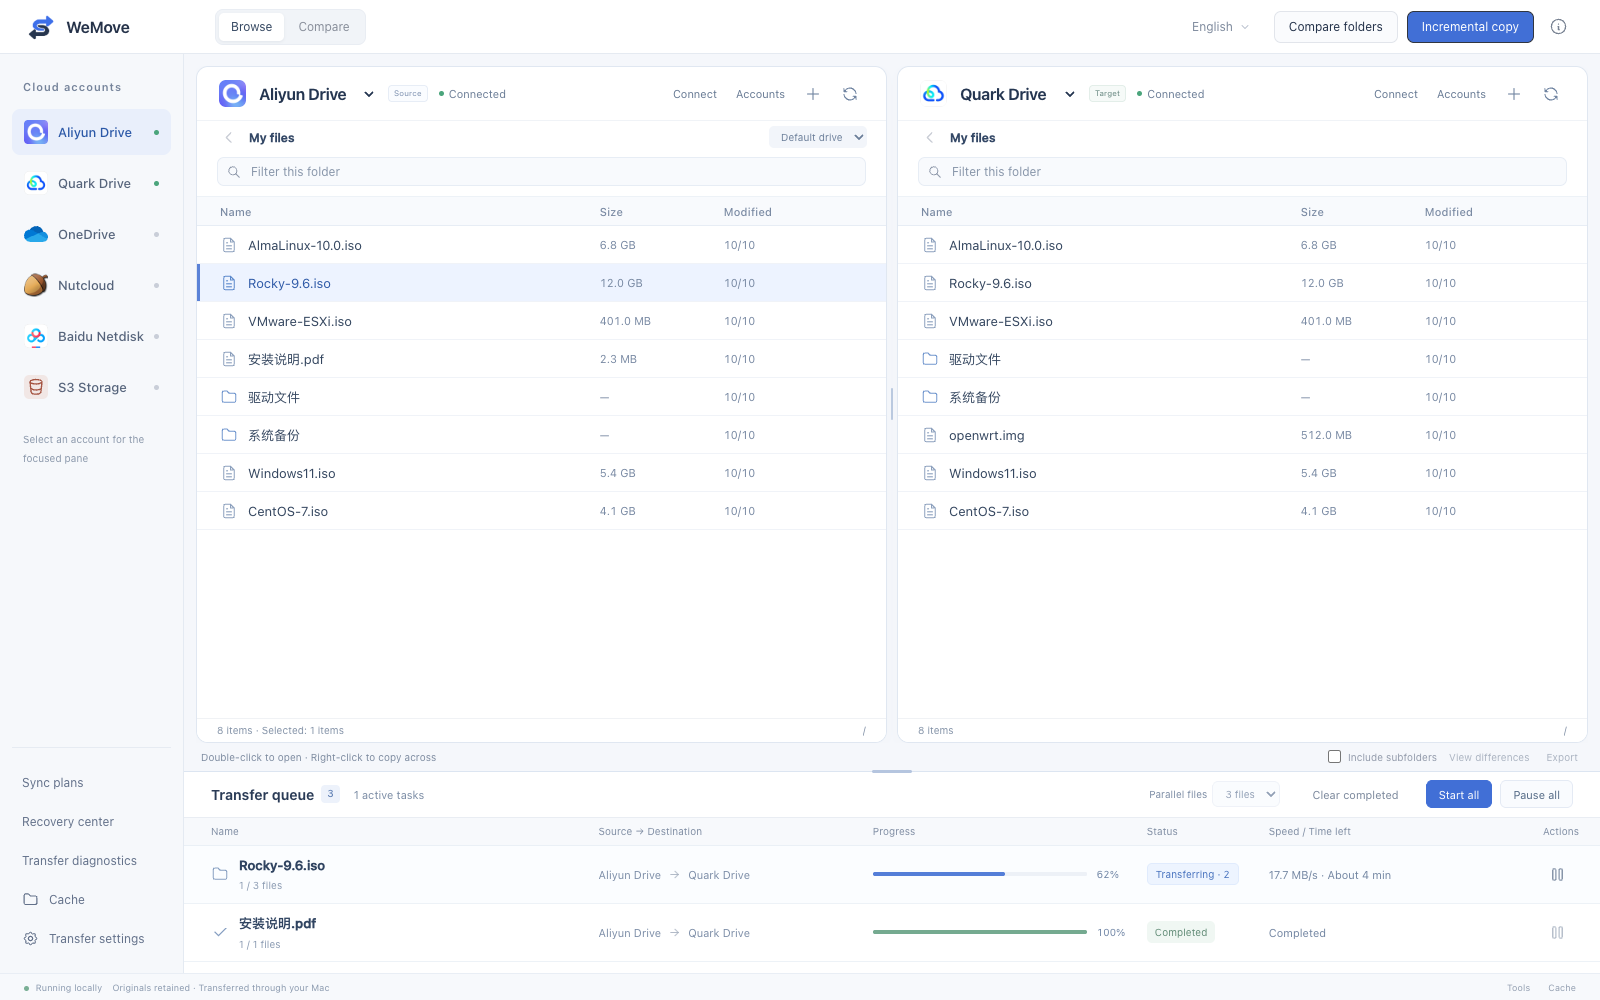
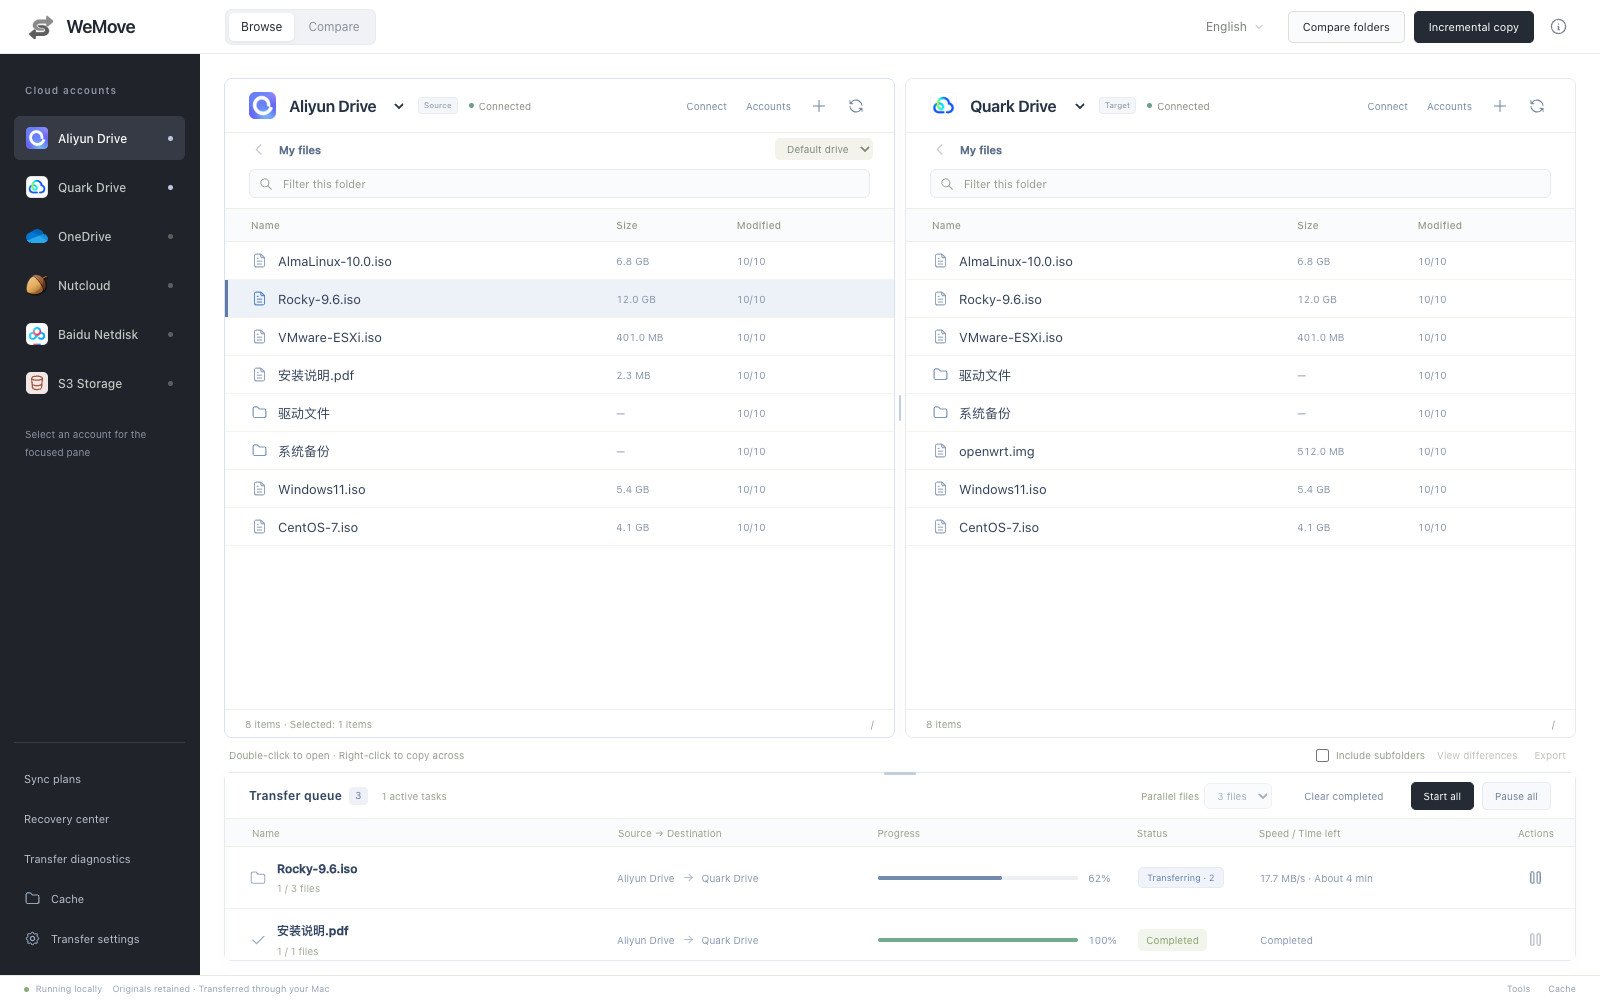
feat(ui): apply Ink theme and refresh bilingual README screenshots

diff --git a/styles.css b/styles.css
@@ -119,3 +119,23 @@ HTML[lang="en"] .pane-role{font-size:8px}HTML[lang="en"] .pane-head>button:not(.
 .app-header{height:54px}.browser-area{padding:12px 12px 0;grid-template-rows:minmax(0,1fr) 28px}.pane-head{min-height:54px}.pane-head .provider-logo{width:27px;height:27px}.pathbar{min-height:31px;margin-top:0}.filterbar{min-height:29px;margin:4px 20px 10px;padding:4px 9px}.file-table th{height:29px}.file-table tbody tr:not(.virtual-spacer),.file-table tbody tr:not(.virtual-spacer)>td{height:38px}.pane-footer{min-height:24px}.queue{grid-template-rows:46px 28px minmax(0,1fr)}.job{min-height:58px}.queue>header button{height:28px;min-height:28px}.comparison-strip{font-size:10px}
 @media(max-width:850px){.browser-area{padding:8px 8px 0}.pane-head{min-height:50px}.filterbar{margin-inline:14px}}
 .context{max-height:calc(100dvh - 16px);overflow-y:auto;min-width:220px}.menu-divider{height:1px;background:#e9edf4;margin:5px 7px}.context>button{font-size:12px;min-height:30px}.context .menu-target{max-width:260px;overflow:hidden;text-overflow:ellipsis;white-space:nowrap}
+
+/* Approved A: Ink / black and white workspace. */
+/* Graphite / warm paper: an alternative visual direction. */
+:root{--ink:#292e32;--blue:#536858;--line:#e8e7e3;--muted:#828781}
+.window{grid-template-columns:200px minmax(0,1fr);background:#f5f4f0}.app-header{height:66px;background:#faf9f6;border-bottom:1px solid #e5e4df;padding-inline:26px}.app-identity{min-width:174px}.brand{font-size:18px;color:#303b35;letter-spacing:-.6px}.app-symbol{background:transparent}.app-logo{filter:grayscale(1);opacity:.8}.view-switch{border-color:#e5e4de;background:#eeeee9;padding:3px;border-radius:7px}.view-switch button.chosen{color:#35453b}.toolbar-actions button{height:32px;border-radius:5px;font-size:11px;border-color:#dedfd7;background:#fafaf7}.toolbar-actions button.primary,button.primary{background:#42594b;border-color:#42594b;color:white}.toolbar-actions button.primary:hover{background:#35483d}#language{color:#797f76}
+.sidebar{background:#262d29;border-color:#262d29;padding:30px 14px 18px}.sidebar-heading{color:#919c94;font-size:10px;letter-spacing:1px;margin-bottom:20px}.account{color:#bfc8c1;background:transparent;min-height:44px;padding:10px 12px;font-size:12px;border-radius:6px}.account.selected{background:#3a453d;color:#eef1ec;box-shadow:none}.account:hover{background:#323b35}.account .provider-logo{width:22px;height:22px}.account-dot{background:#59615b}.account-dot.connected{background:#a4b79b}.sidebar-note{color:#8a958d;font-size:10px;line-height:1.8}.sidebar-bottom{border-color:#414a43}.sidebar-bottom button{color:#b6c0b8;font-size:11px;height:38px}.sidebar-bottom button:hover{background:#323b35}.sidebar-bottom .icon{color:#97a89b}
+.browser-area{padding:24px 24px 0;background:#f5f4f0;grid-template-rows:minmax(0,1fr) 34px}.pane{border:1px solid #e2e3da!important;border-radius:8px;background:#fffefa;box-shadow:0 4px 14px #282e2004}.pane-head{min-height:72px;padding-inline:24px;border-bottom:1px solid #eeeee6;background:#fffefa}.provider-select{color:#334037;font-size:17px;font-weight:650;letter-spacing:-.4px;background:transparent}.pane-head .provider-logo{width:27px;height:27px;border-radius:6px}.pane-head .connection{color:#889080;font-size:10px}.connection.connected::before{background:#789a72}.pane-role,.pane-role.target{color:#7e8978;background:#f4f5ed;border-color:#e7eadd;font-size:9px}.pane-head>button:not(.icon-button){color:#808a7c;font-size:10px}.pane-head .icon-button{color:#84917e}.pathbar{min-height:39px;padding-inline:21px}.crumbs button{font-size:11px;color:#707e6c}.crumbs button:last-child{color:#54674f}.drive-select{background:#f3f3ec;color:#7c8975}.filterbar{background:#f8f8f2;border:1px solid #e9ebdf;border-radius:5px;margin:5px 24px 16px;min-height:31px}.filterbar input{font-size:11px;color:#57664f}.filterbar input::placeholder{color:#949c8e}.filterbar .icon{color:#98a28f}.file-table th{background:#f7f7f1;height:33px;border-color:#eeefe6;color:#919888;font-size:10px}.file-table th:first-child,.file-table td:first-child{padding-left:26px}.file-table tbody tr:not(.virtual-spacer),.file-table tbody tr:not(.virtual-spacer)>td{height:40px}.file-table td{background:transparent;color:#46503e;font-size:12px}.file-table .size,.file-table .modified{font-size:10px;color:#8d9783}.file-table tbody tr:not(.virtual-spacer){border-color:#f3f4ec}.file-table tbody tr.selected{background:#eef2e7;box-shadow:inset 3px 0 #829573}.file-table tbody tr.selected .file-name{color:#4c6543}.file-table tbody tr:hover{background:#f5f7ef}.file-name .icon{color:#a5af97;width:17px;height:17px}.file-name .folder{color:#8fa478}.pane-footer{background:#fffefa;color:#97a08e;border-color:#eff0e8;font-size:10px;min-height:28px}.comparison-strip{background:transparent;font-size:10px}.comparison-strip>span,.comparison-strip label,.comparison-strip button{color:#949b8b}.layout-handle.vertical{background:transparent}.layout-handle.vertical::after{background:#ced4c2;height:26px}.layout-handle.horizontal::after{background:#b8c4ac;width:32px}.layout-handle:hover::after{background:#849674}
+.queue{margin:0 24px 14px;border:1px solid #e1e4d7;border-radius:8px;grid-template-rows:49px 29px minmax(0,1fr);background:#fffefa;box-shadow:0 3px 12px #28322005}.queue>header{background:#fffefa;padding-inline:24px;border-bottom-color:#eeefe6}.queue h2{font-size:12px;color:#4b5c40;letter-spacing:.2px}.queue h2 span{color:#7c9070;background:#f0f3e9}#queue-summary{color:#99a08f;font-size:10px}.queue>header button{font-size:10px;height:27px;border-radius:5px;border-color:#e3e7d9}.queue>header #start-all{background:#526749;border-color:#526749;color:#fff}.queue>header #pause-all{background:#f8f9f2;color:#809274;border-color:#e3e7d9}.transfer-setting{color:#95a089}.transfer-setting select{background:#f6f8ee;border-color:#e7ebde;color:#899b7c}.queue-columns{background:#f7f8f1;color:#98a18c;border-color:#edf0e4;font-size:10px}.job{background:#fffefa;padding-inline:24px;border-color:#f0f3e9;min-height:62px}.job:has(.working){background:#fcfdf8}.job-name{color:#4b5f42;font-size:12px;font-weight:550}.job-count{color:#a0aa94;font-size:10px}.job-route,.transfer-metrics{color:#94a187;font-size:10px}.job-name .icon{color:#a4b495}.job>.state.working{color:#7e9568;background:#f1f6e9;border-color:#e8efdc;font-size:9px}.status-badge.complete{background:#f2f5eb;color:#86a26e!important}.status-badge.paused{background:#f7f3e9;color:#a79c7b!important}.job progress::-webkit-progress-bar{background:#edf0e5}.job progress::-webkit-progress-value{background:#91a777}.progress-percent{color:#98aa83}.statusbar{background:#f5f4f0;color:#98a08f;border-color:#e8e9e0;height:25px}.statusbar .status-dot{background:#8eac7b}
+
+.window,.browser-area,.app-header,.statusbar{background:#fff}.pane,.pane-head,.pane-footer,.queue,.queue>header,.job,.job:has(.working){background:#fff}.file-table th,.queue-columns{background:#fafbfc}.filterbar{background:#fafbfc;border-color:#e8ebef}.comparison-strip{background:#fff}.pane{border-color:#e6e9ee!important}.queue{border-color:#e6e9ee}.sidebar{background:#262d29}.file-table tbody tr.selected{background:#eef3ef}.job progress::-webkit-progress-bar{background:#edf0f3}
+
+:root{--ink:#21242a;--blue:#252a32;--line:#e6e8ec}.sidebar{background:#202329;border-color:#202329}.account.selected{background:#353a44;color:#fff}.account-dot.connected{background:#b8c7df}.sidebar-heading,.sidebar-note{color:#8b94a5}.sidebar-bottom{border-color:#373c47}.sidebar-bottom button{color:#b9c1ce}.app-header{border-color:#e9ebef}.brand{color:#222832}.view-switch{background:#f0f2f5;border-color:#e8ebef}.view-switch button.chosen{color:#202832}.toolbar-actions button.primary,.queue>header #start-all{background:#252b35;border-color:#252b35}.provider-select{color:#263345}.connection.connected::before{background:#6e9e87}.pane-role,.pane-role.target{background:#f4f6f9;border-color:#e8edf3;color:#8190a5}.file-table td,.file-table tbody tr.selected .file-name{color:#334158}.file-table tbody tr.selected{background:#edf1f8;box-shadow:inset 3px 0 #617ba9}.file-name .icon{color:#93a4bc}.file-name .folder{color:#7d97bf}.filterbar input,.crumbs button:last-child{color:#5c6f8b}.file-table .size,.file-table .modified{color:#8795ab}.queue h2,.job-name{color:#354661}.job-route,.transfer-metrics{color:#8796ae}.job>.state.working{color:#617eac;background:#f0f4fa;border-color:#e4ebf6}.job progress::-webkit-progress-value{background:#738aae}.progress-percent{color:#8193af}.queue h2 span{background:#eef2f8;color:#7588a9}.sidebar-bottom .icon{color:#97a7bd}.layout-handle::after{background:#c2cddd!important}.file-table td{font-size:13px}.pane-head{min-height:68px}.pane{border-radius:8px}.filterbar{border-radius:6px}
+/* Keep the compact file layout and responsive controls from the working app. */
+button.primary,.toolbar-actions button.primary,.queue>header #start-all{background:#252b35;border-color:#252b35;color:#fff}button.primary:hover,.toolbar-actions button.primary:hover,.queue>header #start-all:hover{background:#151a22;border-color:#151a22}button.primary:disabled{background:#edf0f4;border-color:#edf0f4;color:#98a2b2}
+.app-header{height:54px}.pane-head{min-height:54px}.pathbar{min-height:31px}.filterbar{min-height:29px;margin-top:4px;margin-bottom:10px}.file-table tbody tr:not(.virtual-spacer),.file-table tbody tr:not(.virtual-spacer)>td{height:38px}.queue{grid-template-rows:46px 28px minmax(0,1fr)}.layout-handle:hover::after{background:#8296b4!important}.account:hover{background:#303641}.account.selected:hover{background:#353a44}.pane-head>button:not(.icon-button),.pane-head .icon-button{color:#798ba5}.queue>header #pause-all{background:#f8f9fc;color:#72829a;border-color:#e6ebf2}.transfer-setting select{background:#f8f9fc;color:#7c8da6;border-color:#e6ebf2}.statusbar{color:#94a2b8}.pane.active{border-color:#d9e2ef!important}.job-name .icon{color:#99aac3}
+@media(max-width:1200px){.window{grid-template-columns:164px minmax(0,1fr)}.browser-area{padding:12px 12px 0}.queue{margin-inline:12px}.app-identity{min-width:120px}.pane-head{padding-inline:12px;gap:5px}.queue>header{padding-inline:14px}.queue-columns,.job{padding-inline:14px}}
+@media(max-width:1000px){.window{grid-template-columns:140px minmax(0,1fr)}.sidebar{padding-inline:7px}.account{font-size:11px;padding-inline:8px}.sidebar-bottom button{font-size:11px;padding-inline:8px}.app-identity{min-width:95px}.queue>header{gap:5px}.queue>header button{padding-inline:7px}}
+@media(max-width:850px){.window{grid-template-columns:minmax(0,1fr)}.browser-area,.queue{grid-column:1}.sidebar{display:none}.browser-area{padding:8px 8px 0}.queue{margin-inline:8px}.app-identity{min-width:95px}.app-header{padding-inline:14px}.pane-head{min-height:50px}.queue>header{padding-inline:10px}.queue-columns,.job{padding-inline:10px}.app-logo{height:26px;width:26px}}
+@container(max-width:530px){.provider-select{font-size:15px;max-width:145px}.pane-head .connection{display:none}.pane-head .provider-logo{width:25px;height:25px}.pane-head>button:not(.icon-button){font-size:10px;padding:4px 5px}}
+@container(max-width:365px){.provider-select{font-size:13px;max-width:130px}.pane-head .provider-logo{width:22px;height:22px}}

diff --git a/designs/ink.css b/designs/ink.css
@@ -1,0 +1,10 @@
+/* Graphite / warm paper: an alternative visual direction. */
+:root{--ink:#292e32;--blue:#536858;--line:#e8e7e3;--muted:#828781}
+.window{grid-template-columns:200px minmax(0,1fr);background:#f5f4f0}.app-header{height:66px;background:#faf9f6;border-bottom:1px solid #e5e4df;padding-inline:26px}.app-identity{min-width:174px}.brand{font-size:18px;color:#303b35;letter-spacing:-.6px}.app-symbol{background:transparent}.app-logo{filter:grayscale(1);opacity:.8}.view-switch{border-color:#e5e4de;background:#eeeee9;padding:3px;border-radius:7px}.view-switch button.chosen{color:#35453b}.toolbar-actions button{height:32px;border-radius:5px;font-size:11px;border-color:#dedfd7;background:#fafaf7}.toolbar-actions button.primary,button.primary{background:#42594b;border-color:#42594b;color:white}.toolbar-actions button.primary:hover{background:#35483d}#language{color:#797f76}
+.sidebar{background:#262d29;border-color:#262d29;padding:30px 14px 18px}.sidebar-heading{color:#919c94;font-size:10px;letter-spacing:1px;margin-bottom:20px}.account{color:#bfc8c1;background:transparent;min-height:44px;padding:10px 12px;font-size:12px;border-radius:6px}.account.selected{background:#3a453d;color:#eef1ec;box-shadow:none}.account:hover{background:#323b35}.account .provider-logo{width:22px;height:22px}.account-dot{background:#59615b}.account-dot.connected{background:#a4b79b}.sidebar-note{color:#8a958d;font-size:10px;line-height:1.8}.sidebar-bottom{border-color:#414a43}.sidebar-bottom button{color:#b6c0b8;font-size:11px;height:38px}.sidebar-bottom button:hover{background:#323b35}.sidebar-bottom .icon{color:#97a89b}
+.browser-area{padding:24px 24px 0;background:#f5f4f0;grid-template-rows:minmax(0,1fr) 34px}.pane{border:1px solid #e2e3da!important;border-radius:8px;background:#fffefa;box-shadow:0 4px 14px #282e2004}.pane-head{min-height:72px;padding-inline:24px;border-bottom:1px solid #eeeee6;background:#fffefa}.provider-select{color:#334037;font-size:17px;font-weight:650;letter-spacing:-.4px;background:transparent}.pane-head .provider-logo{width:27px;height:27px;border-radius:6px}.pane-head .connection{color:#889080;font-size:10px}.connection.connected::before{background:#789a72}.pane-role,.pane-role.target{color:#7e8978;background:#f4f5ed;border-color:#e7eadd;font-size:9px}.pane-head>button:not(.icon-button){color:#808a7c;font-size:10px}.pane-head .icon-button{color:#84917e}.pathbar{min-height:39px;padding-inline:21px}.crumbs button{font-size:11px;color:#707e6c}.crumbs button:last-child{color:#54674f}.drive-select{background:#f3f3ec;color:#7c8975}.filterbar{background:#f8f8f2;border:1px solid #e9ebdf;border-radius:5px;margin:5px 24px 16px;min-height:31px}.filterbar input{font-size:11px;color:#57664f}.filterbar input::placeholder{color:#949c8e}.filterbar .icon{color:#98a28f}.file-table th{background:#f7f7f1;height:33px;border-color:#eeefe6;color:#919888;font-size:10px}.file-table th:first-child,.file-table td:first-child{padding-left:26px}.file-table tbody tr:not(.virtual-spacer),.file-table tbody tr:not(.virtual-spacer)>td{height:40px}.file-table td{background:transparent;color:#46503e;font-size:12px}.file-table .size,.file-table .modified{font-size:10px;color:#8d9783}.file-table tbody tr:not(.virtual-spacer){border-color:#f3f4ec}.file-table tbody tr.selected{background:#eef2e7;box-shadow:inset 3px 0 #829573}.file-table tbody tr.selected .file-name{color:#4c6543}.file-table tbody tr:hover{background:#f5f7ef}.file-name .icon{color:#a5af97;width:17px;height:17px}.file-name .folder{color:#8fa478}.pane-footer{background:#fffefa;color:#97a08e;border-color:#eff0e8;font-size:10px;min-height:28px}.comparison-strip{background:transparent;font-size:10px}.comparison-strip>span,.comparison-strip label,.comparison-strip button{color:#949b8b}.layout-handle.vertical{background:transparent}.layout-handle.vertical::after{background:#ced4c2;height:26px}.layout-handle.horizontal::after{background:#b8c4ac;width:32px}.layout-handle:hover::after{background:#849674}
+.queue{margin:0 24px 14px;border:1px solid #e1e4d7;border-radius:8px;grid-template-rows:49px 29px minmax(0,1fr);background:#fffefa;box-shadow:0 3px 12px #28322005}.queue>header{background:#fffefa;padding-inline:24px;border-bottom-color:#eeefe6}.queue h2{font-size:12px;color:#4b5c40;letter-spacing:.2px}.queue h2 span{color:#7c9070;background:#f0f3e9}#queue-summary{color:#99a08f;font-size:10px}.queue>header button{font-size:10px;height:27px;border-radius:5px;border-color:#e3e7d9}.queue>header #start-all{background:#526749;border-color:#526749;color:#fff}.queue>header #pause-all{background:#f8f9f2;color:#809274;border-color:#e3e7d9}.transfer-setting{color:#95a089}.transfer-setting select{background:#f6f8ee;border-color:#e7ebde;color:#899b7c}.queue-columns{background:#f7f8f1;color:#98a18c;border-color:#edf0e4;font-size:10px}.job{background:#fffefa;padding-inline:24px;border-color:#f0f3e9;min-height:62px}.job:has(.working){background:#fcfdf8}.job-name{color:#4b5f42;font-size:12px;font-weight:550}.job-count{color:#a0aa94;font-size:10px}.job-route,.transfer-metrics{color:#94a187;font-size:10px}.job-name .icon{color:#a4b495}.job>.state.working{color:#7e9568;background:#f1f6e9;border-color:#e8efdc;font-size:9px}.status-badge.complete{background:#f2f5eb;color:#86a26e!important}.status-badge.paused{background:#f7f3e9;color:#a79c7b!important}.job progress::-webkit-progress-bar{background:#edf0e5}.job progress::-webkit-progress-value{background:#91a777}.progress-percent{color:#98aa83}.statusbar{background:#f5f4f0;color:#98a08f;border-color:#e8e9e0;height:25px}.statusbar .status-dot{background:#8eac7b}
+
+.window,.browser-area,.app-header,.statusbar{background:#fff}.pane,.pane-head,.pane-footer,.queue,.queue>header,.job,.job:has(.working){background:#fff}.file-table th,.queue-columns{background:#fafbfc}.filterbar{background:#fafbfc;border-color:#e8ebef}.comparison-strip{background:#fff}.pane{border-color:#e6e9ee!important}.queue{border-color:#e6e9ee}.sidebar{background:#262d29}.file-table tbody tr.selected{background:#eef3ef}.job progress::-webkit-progress-bar{background:#edf0f3}
+
+:root{--ink:#21242a;--blue:#252a32;--line:#e6e8ec}.sidebar{background:#202329;border-color:#202329}.account.selected{background:#353a44;color:#fff}.account-dot.connected{background:#b8c7df}.sidebar-heading,.sidebar-note{color:#8b94a5}.sidebar-bottom{border-color:#373c47}.sidebar-bottom button{color:#b9c1ce}.app-header{border-color:#e9ebef}.brand{color:#222832}.view-switch{background:#f0f2f5;border-color:#e8ebef}.view-switch button.chosen{color:#202832}.toolbar-actions button.primary,.queue>header #start-all{background:#252b35;border-color:#252b35}.provider-select{color:#263345}.connection.connected::before{background:#6e9e87}.pane-role,.pane-role.target{background:#f4f6f9;border-color:#e8edf3;color:#8190a5}.file-table td,.file-table tbody tr.selected .file-name{color:#334158}.file-table tbody tr.selected{background:#edf1f8;box-shadow:inset 3px 0 #617ba9}.file-name .icon{color:#93a4bc}.file-name .folder{color:#7d97bf}.filterbar input,.crumbs button:last-child{color:#5c6f8b}.file-table .size,.file-table .modified{color:#8795ab}.queue h2,.job-name{color:#354661}.job-route,.transfer-metrics{color:#8796ae}.job>.state.working{color:#617eac;background:#f0f4fa;border-color:#e4ebf6}.job progress::-webkit-progress-value{background:#738aae}.progress-percent{color:#8193af}.queue h2 span{background:#eef2f8;color:#7588a9}.sidebar-bottom .icon{color:#97a7bd}.layout-handle::after{background:#c2cddd!important}.file-table td{font-size:13px}.pane-head{min-height:68px}.pane{border-radius:8px}.filterbar{border-radius:6px}
